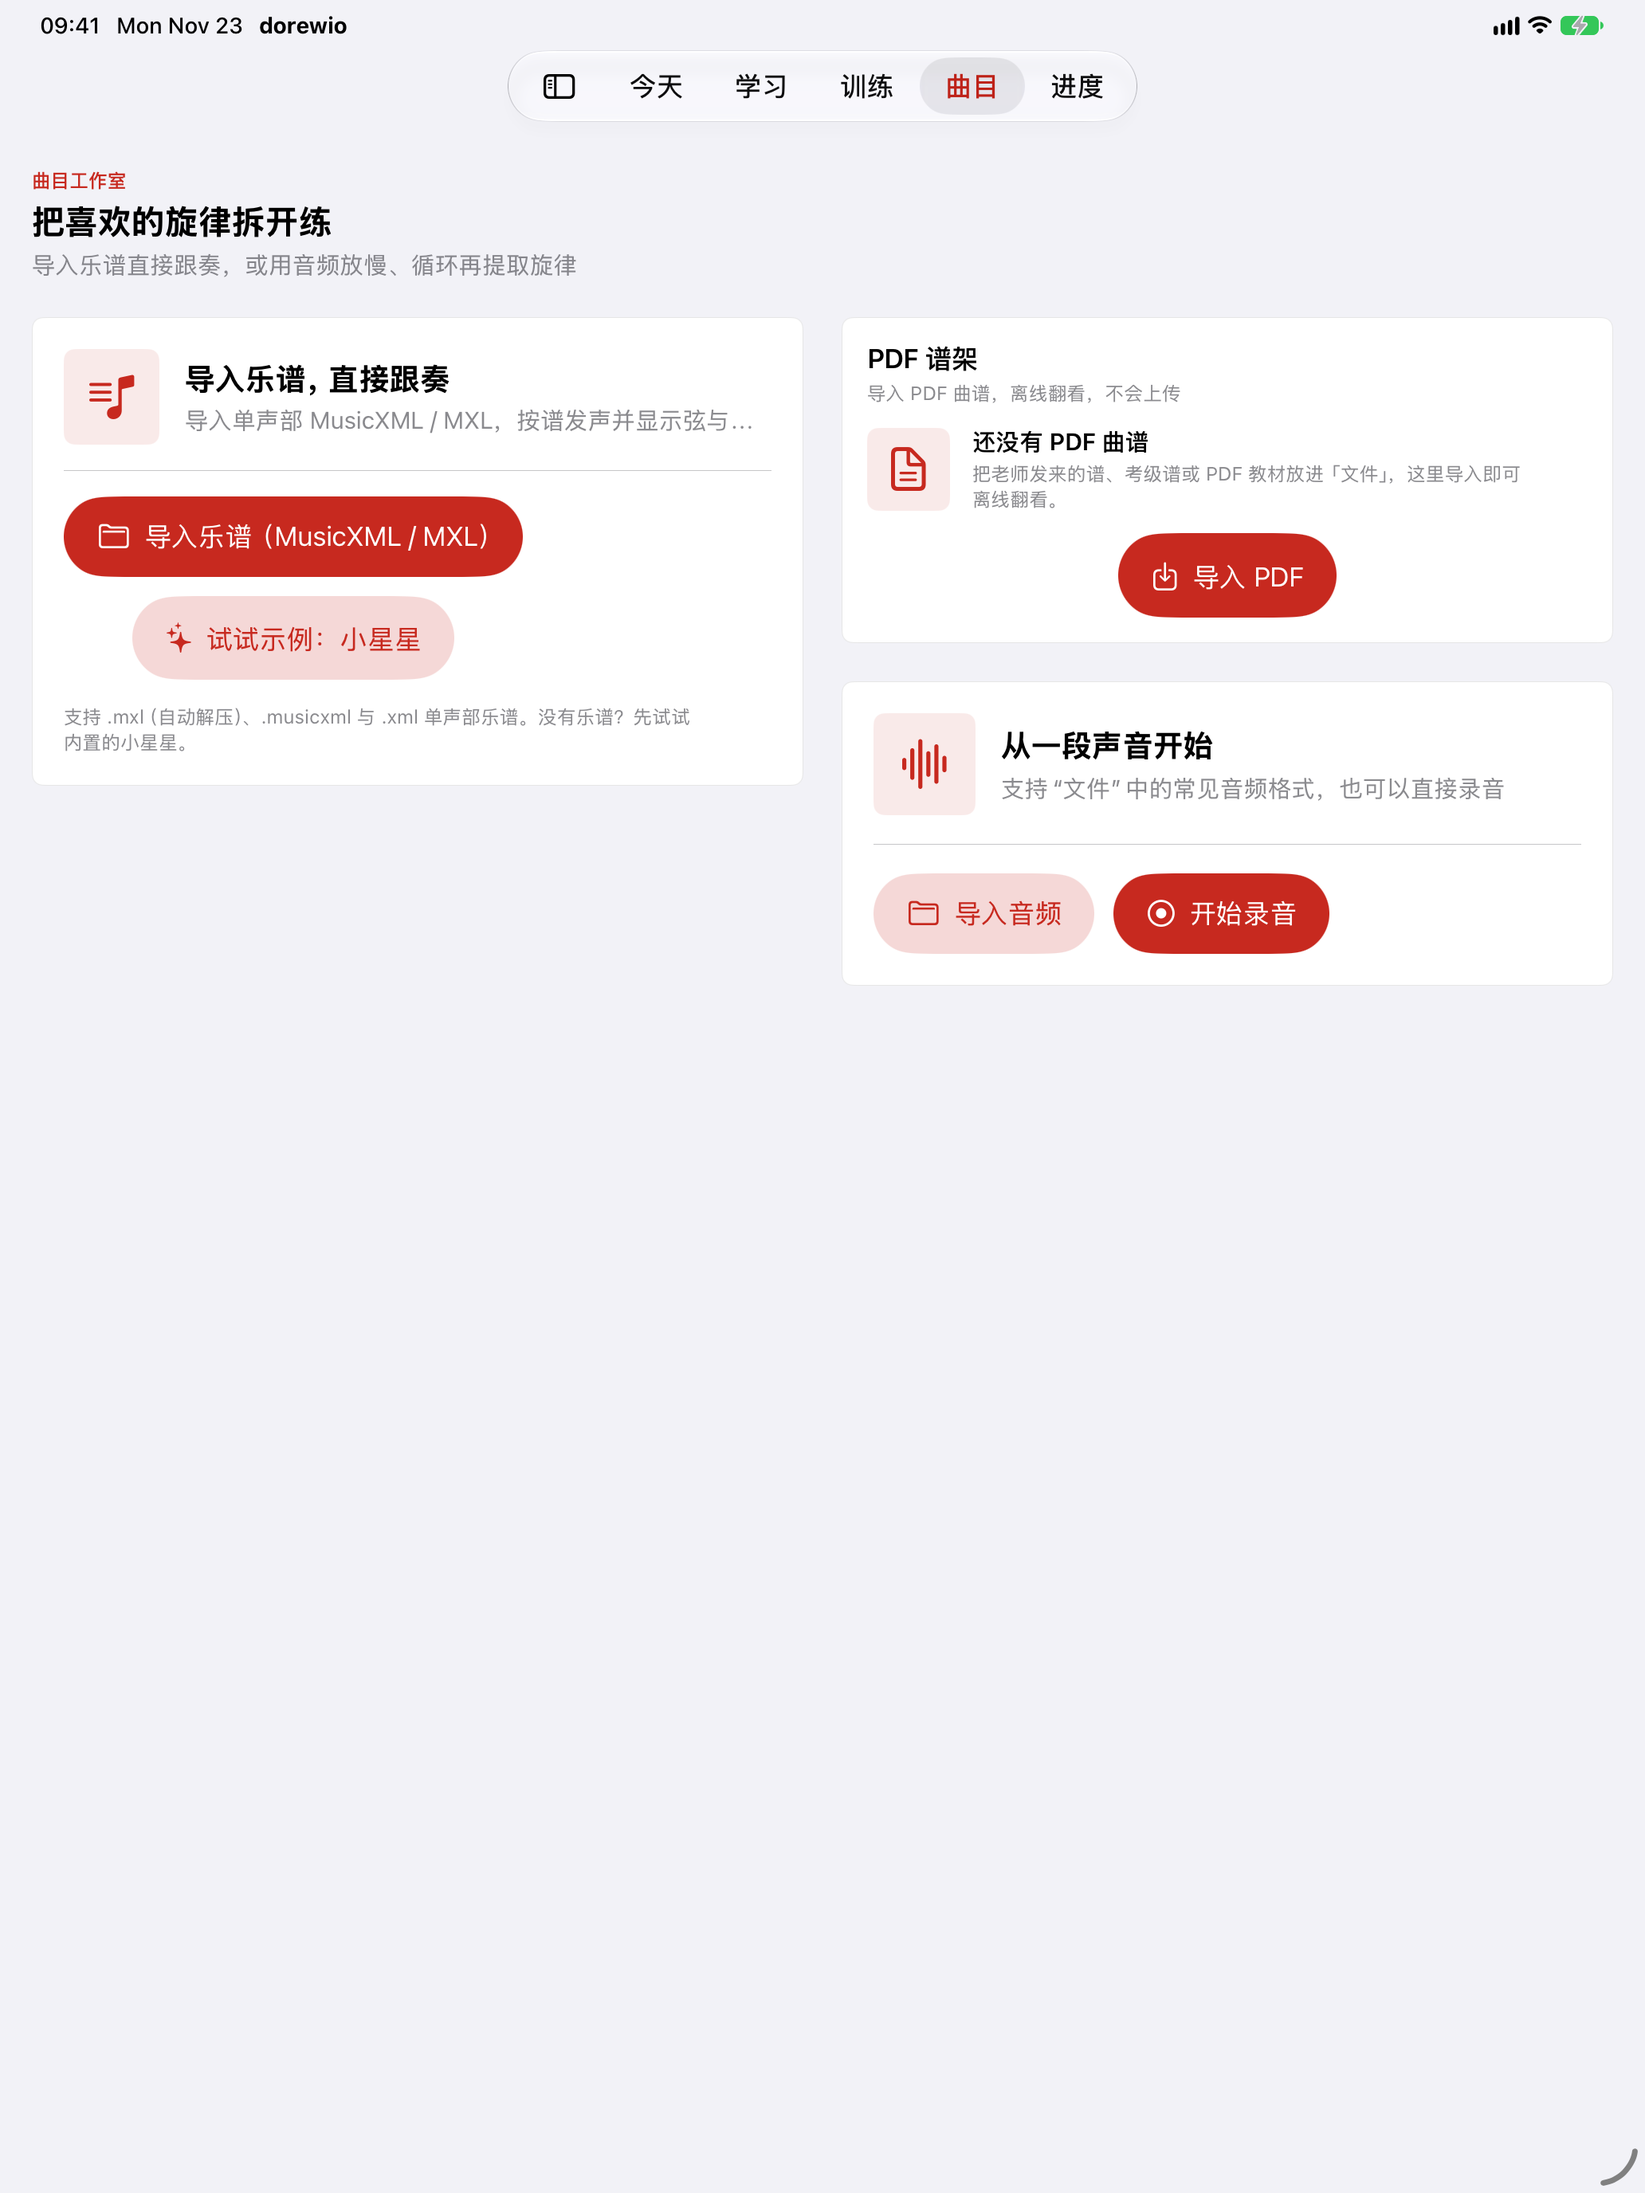
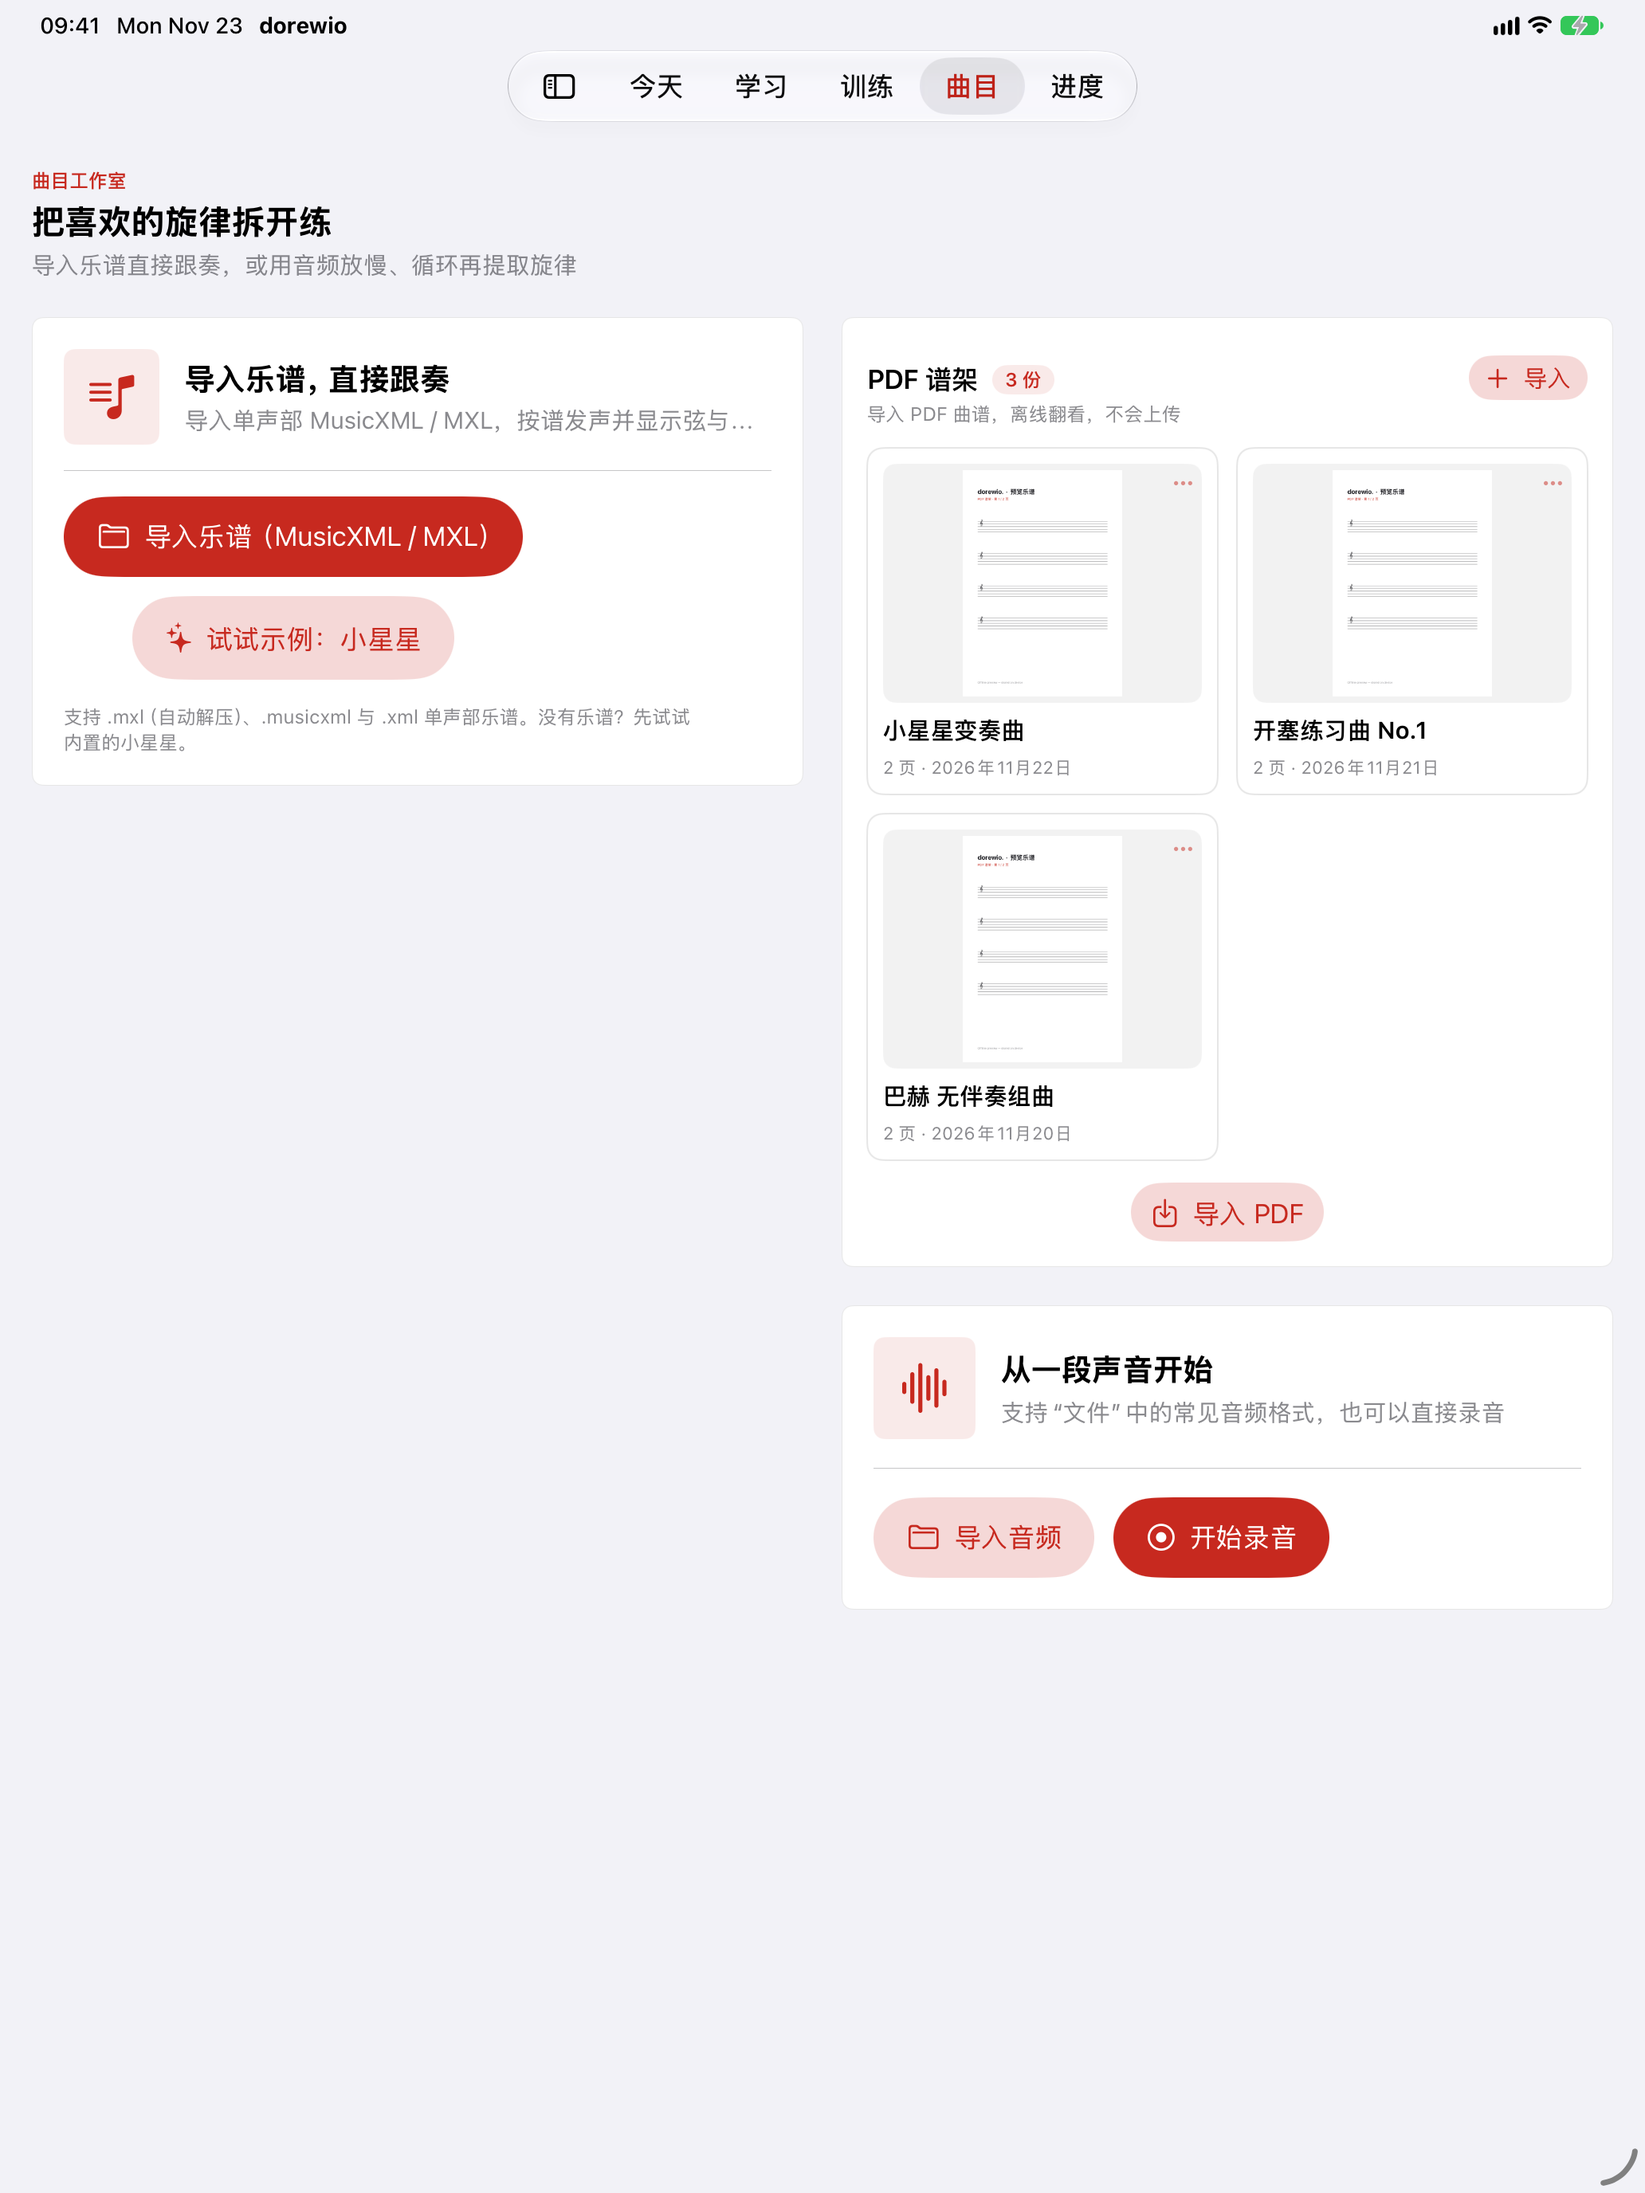
feat: PDF cover grid and competitor iPad research
- PDF shelf now uses a cover grid with first-page thumbnails (content-first,
  matching the library pattern of Trala/tonestro/来音/一起练琴).
- Add competitor iPad research with observed patterns and adopted/rejected items.
- Update design QA evidence and iPad shelf screenshot.

diff --git a/dorewio/PDFShelfView.swift b/dorewio/PDFShelfView.swift
@@ -1,4 +1,5 @@
 import SwiftUI
+import PDFKit
 
 /// 「曲目」页的 PDF 谱架：导入 PDF、离线翻谱、管理本机副本。
 struct PDFShelfView: View {
@@ -120,59 +121,16 @@ struct PDFShelfView: View {
     // MARK: - 列表
 
     private var scoreList: some View {
-        VStack(spacing: 0) {
+        LazyVGrid(
+            columns: [GridItem(.adaptive(minimum: 150, maximum: 230), spacing: 12)],
+            alignment: .leading,
+            spacing: 12
+        ) {
             ForEach(library.scores) { score in
-                row(score)
-                if score.id != library.scores.last?.id {
-                    Divider()
-                }
-            }
-        }
-    }
-
-    private func row(_ score: PDFScore) -> some View {
-        HStack(spacing: 10) {
-            NavigationLink(value: score) {
-                HStack(spacing: 12) {
-                    Image(systemName: "doc.text.fill")
-                        .font(.system(size: 18, weight: .medium))
-                        .foregroundStyle(PracticePalette.accent)
-                        .frame(width: 36, height: 44)
-                        .accessibilityHidden(true)
-
-                    VStack(alignment: .leading, spacing: 3) {
-                        Text(score.displayName)
-                            .font(.subheadline.weight(.semibold))
-                            .foregroundStyle(.primary)
-                            .lineLimit(1)
-                        Text("\(score.pageCount) 页 · \(score.importedAt.formatted(date: .abbreviated, time: .omitted))")
-                            .font(.caption)
-                            .foregroundStyle(.secondary)
-                    }
-                    .frame(maxWidth: .infinity, alignment: .leading)
-
-                    Image(systemName: "chevron.right")
-                        .font(.caption.weight(.semibold))
-                        .foregroundStyle(.tertiary)
-                        .accessibilityHidden(true)
-                }
-                .contentShape(.rect)
-            }
-            .buttonStyle(.plain)
-            .accessibilityLabel("\(score.displayName)，\(score.pageCount) 页")
-            .accessibilityHint("打开 PDF 谱面")
-
-            Menu {
-                Button("删除", systemImage: "trash", role: .destructive) {
+                PDFScoreCard(score: score, fileURL: library.fileURL(for: score)) {
                     pendingDeletion = score
                 }
-            } label: {
-                Image(systemName: "ellipsis")
-                    .font(.body.weight(.semibold))
-                    .frame(width: 44, height: 44)
-                    .contentShape(.rect)
             }
-            .accessibilityLabel("\(score.displayName) 的操作")
         }
     }
 
@@ -181,5 +139,73 @@ struct PDFShelfView: View {
             .buttonStyle(.bordered)
             .frame(maxWidth: .infinity)
             .accessibilityHint("从「文件」中选择一份 PDF")
+    }
+}
+
+private struct PDFScoreCard: View {
+    let score: PDFScore
+    let fileURL: URL
+    let onDelete: () -> Void
+
+    @State private var thumbnail: UIImage?
+
+    var body: some View {
+        NavigationLink(value: score) {
+            VStack(alignment: .leading, spacing: 8) {
+                ZStack {
+                    RoundedRectangle(cornerRadius: 8)
+                        .fill(Color.primary.opacity(0.05))
+                    if let thumbnail {
+                        Image(uiImage: thumbnail)
+                            .resizable()
+                            .scaledToFit()
+                            .padding(4)
+                    } else {
+                        Image(systemName: "doc.text")
+                            .font(.title)
+                            .foregroundStyle(PracticePalette.accent)
+                    }
+                }
+                .frame(height: 150)
+                .accessibilityHidden(true)
+
+                Text(score.displayName)
+                    .font(.subheadline.weight(.semibold))
+                    .lineLimit(1)
+                    .foregroundStyle(.primary)
+                Text("\(score.pageCount) 页 · \(score.importedAt.formatted(date: .abbreviated, time: .omitted))")
+                    .font(.caption2)
+                    .foregroundStyle(.secondary)
+            }
+            .padding(10)
+            .frame(maxWidth: .infinity, alignment: .leading)
+            .background(PracticePalette.paper, in: RoundedRectangle(cornerRadius: 10))
+            .overlay {
+                RoundedRectangle(cornerRadius: 10)
+                    .stroke(PracticePalette.hairline, lineWidth: 1)
+            }
+            .contentShape(.rect)
+        }
+        .buttonStyle(.plain)
+        .accessibilityLabel("\(score.displayName)，\(score.pageCount) 页")
+        .accessibilityHint("打开 PDF 谱面")
+        .overlay(alignment: .topTrailing) {
+            Menu {
+                Button("删除", systemImage: "trash", role: .destructive, action: onDelete)
+            } label: {
+                Image(systemName: "ellipsis")
+                    .font(.caption.weight(.bold))
+                    .foregroundStyle(.secondary)
+                    .frame(width: 44, height: 44)
+                    .contentShape(.rect)
+            }
+            .accessibilityLabel("\(score.displayName) 的操作")
+        }
+        .task(id: score.id) {
+            guard thumbnail == nil else { return }
+            thumbnail = PDFDocument(url: fileURL)?
+                .page(at: 0)?
+                .thumbnail(of: CGSize(width: 300, height: 400), for: .cropBox)
+        }
     }
 }

diff --git a/docs/COMPETITOR_IPAD_RESEARCH_2026-11-23.md b/docs/COMPETITOR_IPAD_RESEARCH_2026-11-23.md
@@ -1,0 +1,53 @@
+# 对标产品 iPad 界面调研 — 小提琴学习 App
+
+日期：2026-11-23 · 方法：App Store 公开 iPad 截图（2048 × 2732）+ 产品页描述；仅用于设计分析，不复制其界面或资产。
+
+## 样本
+
+| 产品 | App Store | iPad 截图观察 |
+|---|---|---|
+| Trala: Learn Violin | <https://apps.apple.com/us/app/trala-learn-violin/id1143205265> | 横屏练习画布：左侧窄导航（汉堡），中央大块音高/乐谱画布，提示气泡浮在内容上 |
+| tonestro | <https://apps.apple.com/us/app/learn-play-violin-tonestro/id1590492511> | 3 列封面卡片曲库 + 下方列表；练习页整屏乐谱，反馈点直接画在谱面上 |
+| 来音小提琴 | <https://apps.apple.com/cn/app/id1628747999> | 6 宫格功能卡（趣味练习/调音器/谱库/模拟器/音调仪/节拍器）；曲库是 2 列乐谱卡；模拟器为沉浸式浮层 |
+| 一起练琴 | <https://apps.apple.com/cn/app/id1263079672> | 谱库：搜索 + 5 个彩色入口 + 4 列教材封面 + 2 列单曲；示范页：上方大视频、下方乐谱、底部工具条 |
+
+> 截图证据来自 App Store `ipadScreenshotUrls`（本次抓取为 2048×2732）；仅作本地对比，不随仓库分发。
+
+## 共同模式
+
+1. **内容优先，界面让位**：练习/看谱时，谱面或演奏画布接近整屏；控件悬浮在上下边缘，而不是用卡片把内容包起来。
+2. **多列内容库**：教材/曲谱用 2–5 列封面网格，单曲用 2 列列表；没有一家用「一行一个 PDF」的长列表。
+3. **横屏是练习主场景**：Trala、tonestro、一起练琴的练习截图都是横屏；iPad 版不是把 iPhone 竖屏放大。
+4. **导航轻量**：左侧窄栏/汉堡/顶部少量入口；不堆 5 个以上同级 Tab。
+5. **沉浸式练习**：来音的模拟器、tonestro 的谱面反馈都是全屏/浮层，退出才回到库。
+6. **视觉锚点**：封面图、彩色功能卡、真实谱面，比纯文字卡片更有辨识度。
+
+## 对 dorewio 的取舍
+
+采用：
+- PDF 谱架改为**封面网格**（已实现，见 `docs/screenshots/app-1.1/ipad/04_pdf_shelf.png`）。
+- 曲库/训练入口在 iPad 上用**多列卡片/网格**，而不是长列表（下一步）。
+- 练习页保持**内容区优先**：第一课指板、调音表盘、PDF 阅读器占主要面积，控制放在侧栏/底部。
+- 横屏时优先保证谱面/指板完整可见，控件收窄（下一步，需真机/Simulator 旋转验证）。
+
+不采用：
+- 订阅墙、账号、强制联网、平台曲库——与 dorewio 离线、自带谱、买断的定位相反。
+- 大量营销插画/视频封面——我们是工具型，封面只用于用户导入的 PDF。
+- 5 列以上的密集封面——dorewio 的 PDF 通常是个位数，2–4 列足够。
+
+## 已落地 vs 待做
+
+| 项 | 状态 |
+|---|---|
+| PDF 谱架封面网格 + 首页缩略图 | 已实现 |
+| iPad 常规宽度两栏 dashboard | 已实现 |
+| 可转换侧边栏入口 | 已实现（系统 toggle） |
+| 学习/训练改为 2 列功能卡 | 待做 |
+| 横屏沉浸式练习（谱面/指板全屏） | 待做，需旋转验证 |
+| 键盘快捷键 / pointer hover | 待做 |
+
+## 参考
+
+- App Store 产品页（见上表）
+- Apple HIG Layout: <https://developer.apple.com/design/human-interface-guidelines/layout>
+- Apple HIG Designing for iPadOS: <https://developer.apple.com/design/human-interface-guidelines/designing-for-ipados>

diff --git a/docs/DESIGN_QA_IPAD_2026-11-23.md b/docs/DESIGN_QA_IPAD_2026-11-23.md
@@ -35,13 +35,17 @@ Date: 2026-11-23 · Build **1.1 (19)** · iPad Pro 13-inch (M5), iPadOS 26.5 sim
   - 学习 / 训练 stay two-column and widen to 1100 pt.
   - `IPadNavigationStyle` adds the convertible sidebar on iPadOS 18+.
 
+## Competitive reference
+
+See `docs/COMPETITOR_IPAD_RESEARCH_2026-11-23.md`. The main pattern across Trala, tonestro, 来音小提琴 and 一起练琴 is content-first, edge-to-edge practice with multi-column cover libraries — not stretched iPhone cards. Applied here: the PDF shelf is now a cover grid with first-page thumbnails; the dashboard two-column layout remains for Today/Progress.
+
 ## Visual QA (before → after)
 
 | Area | Before | After | Status |
 |---|---|---|---|
 | Today | one centered 780 pt column, full-width onboarding | two balanced columns; onboarding in the left rail | fixed |
 | 学习 / 训练 | two columns but phone-sized content block | two columns at 1100 pt; same stacking on iPhone | fixed |
-| 曲目 | score, PDF and audio stacked full width | score left; PDF + audio right | fixed |
+| 曲目 | score, PDF and audio stacked full width | score left; PDF cover grid + audio right | fixed |
 | 进度 | one column | summary/chart left; skills/goal/recent right | fixed |
 | 第一课 | card, fingerboard, feedback stacked with large empty bottom | note + note strip + steps left; fingerboard right | improved |
 | 调音 | full-width dial, controls and 1100 pt action | dial left; strings/calibration/help right; 560 pt action | improved |
